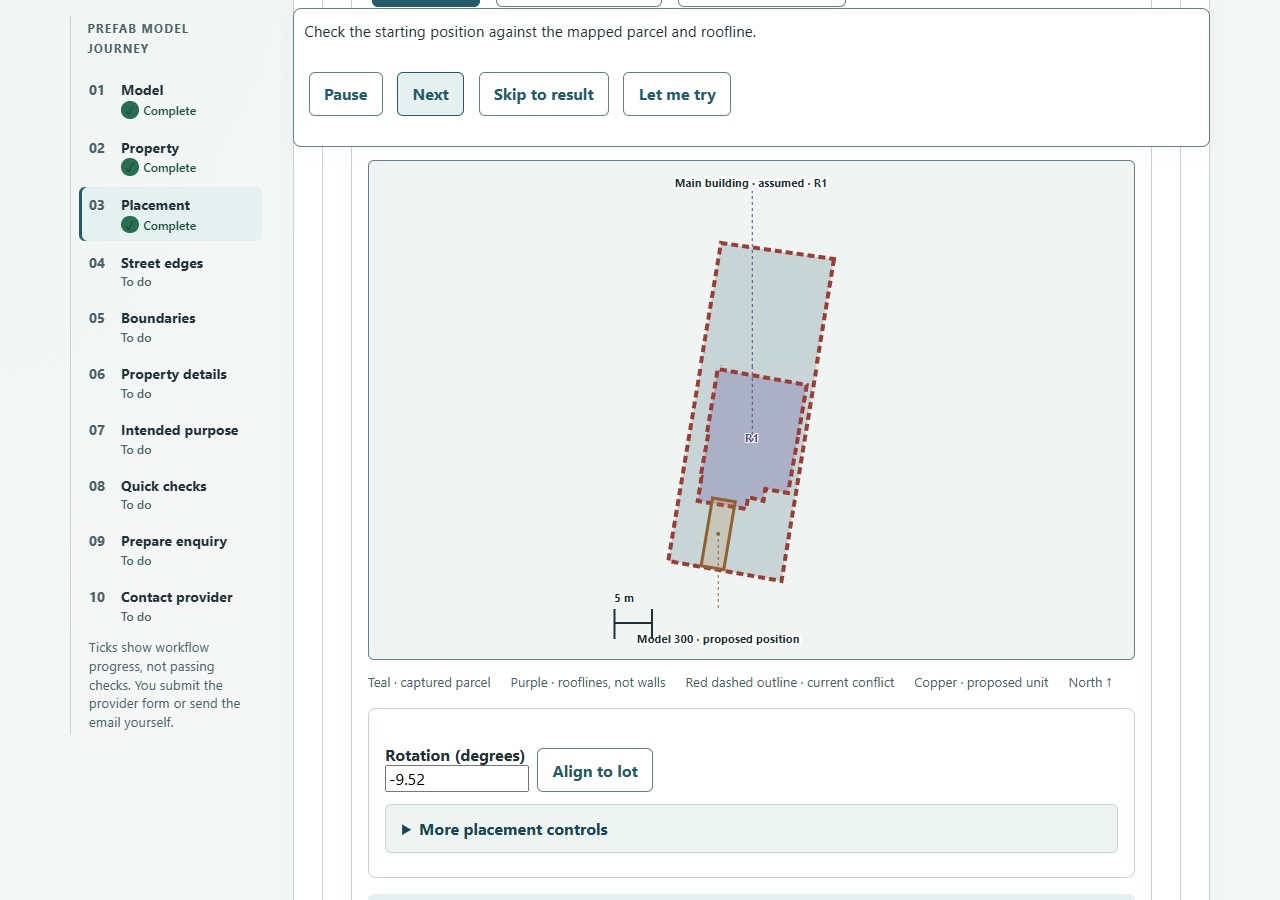
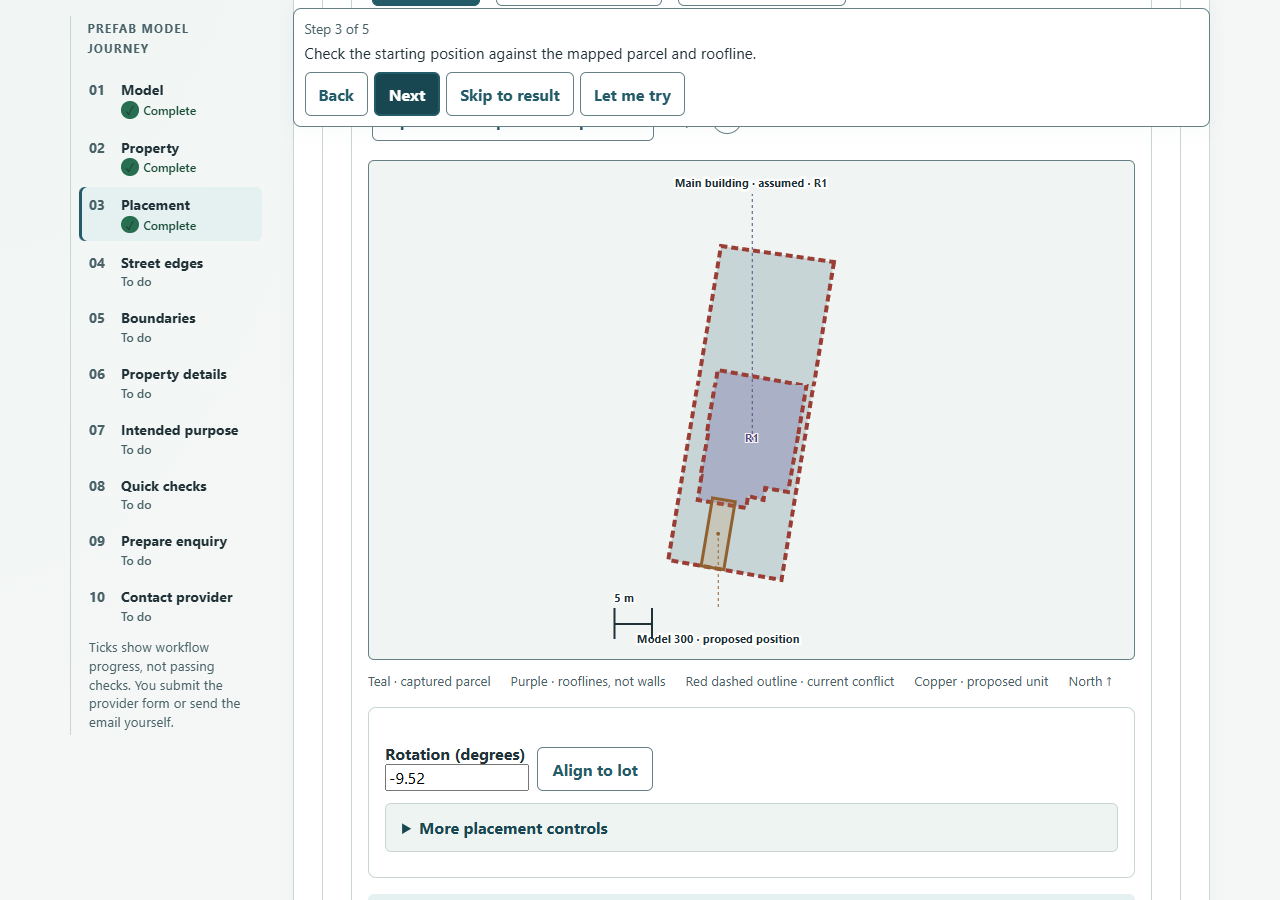
Advance the guided walkthrough with explicit Next and Back

diff --git a/frontend/src/builder_demo/BuilderDemo.tsx b/frontend/src/builder_demo/BuilderDemo.tsx
@@ -1,6 +1,6 @@
 import type { AssessmentEntry } from '../navigation/assessmentEntry'
 import { buildingClearanceMove } from './buildingMove'
-import { useWalkthrough } from './walkthrough'
+import { useWalkthrough, walkthroughPhase } from './walkthrough'
 import { FloatingNext, PlaybackLayout } from '../FloatingNext'
 import { findingAcknowledgementKey } from './journeyState'
 import { enquiryUseQualification, manufacturerDocument, placementConcerns, boundaryObservations, additionalObservation, conditionalObservation, assumptionsDescription, type EnquiryInput } from './manufacturer'
@@ -31,7 +31,7 @@ import { ModelImage } from './model_image/ModelImage'
 import { ExampleProperty } from './ExampleProperty'
 import { IntendedUseControl, applyIntendedUse } from './intendedUse'
 import { useRetainedResult } from '../conditional_screening/resultRetention'
-import { demoEnquiryAnswers, movedExamplePosition, exampleCase, exampleSourcePage } from './example'
+import { demoEnquiryAnswers, movedExamplePosition, initialExamplePosition, exampleCase, exampleSourcePage } from './example'
 import { SiteAssumptionsEditor } from '../zoning_site_assumptions/SiteAssumptions'
 import { ordinaryFourEdgeBoundary, type StreetAdjacency, type BoundaryMapMode, type SiteAssumptions } from '../zoning_site_assumptions/model'
 import type { BoundaryMapInteraction } from '../zoning_site_assumptions/BoundaryMapTools'
@@ -544,9 +544,8 @@ export default function BuilderDemo({ onProgressChange, presetRequest = 0, entry
   const readinessSignature = JSON.stringify(reviewReadiness)
   const playback = useWalkthrough(visible, stop =>
     stop === 'model' || stop === 'property' || !!measurementResult && !checksPending &&
-      (stop !== 'moved' && stop !== 'result' && stop !== 'enquiry' ||
-        measurementResult.result.input.placement.centre_xy[0] === Number(movedExamplePosition().x) &&
-        measurementResult.result.input.placement.centre_xy[1] === Number(movedExamplePosition().y)) &&
+      (measurementResult.result.input.placement.centre_xy[0] === Number((stop === 'initial' ? initialExamplePosition() : movedExamplePosition()).x) &&
+        measurementResult.result.input.placement.centre_xy[1] === Number((stop === 'initial' ? initialExamplePosition() : movedExamplePosition()).y)) &&
       (stop !== 'result' && stop !== 'enquiry' || use === demoEnquiryAnswers.intendedUse), geometryFailure)
   const playbackActive = !!playback.state && visible
   playbackLayoutRef.current = playbackActive
@@ -852,7 +851,7 @@ export default function BuilderDemo({ onProgressChange, presetRequest = 0, entry
     if (journeyStep !== expectedStep) return
     const scrollKey = `${playbackRun}:${playbackStop}`
     if (playbackScrolled.current === scrollKey) return
-    if (!playbackActive || !playbackStop || playback.state?.paused) return
+    if (!playbackActive || !playbackStop) return
     const target = playbackStop === 'model' ? 'builder-title' : playbackStop === 'property' ? 'builder-property-title' : playbackStop === 'result' ? 'builder-quick-checks' : playbackStop === 'enquiry' ? 'builder-unsent-preview' : 'placement-map'
     const frame = requestAnimationFrame(() => {
       if (!playbackLayoutRef.current || !journeyVisible.current) return
@@ -860,14 +859,15 @@ export default function BuilderDemo({ onProgressChange, presetRequest = 0, entry
       if (element && !element.closest('[hidden]')) { playbackScrolled.current = scrollKey; element.scrollIntoView?.({ block: 'start', behavior: 'auto' }) }
     })
     return () => { if (typeof cancelAnimationFrame !== 'undefined') cancelAnimationFrame(frame) }
-  }, [playbackActive, playbackStop, playbackRun, playback.state?.paused, journeyStep, expanded, !!enquiryDoc])
+  }, [playbackActive, playbackStop, playbackRun, journeyStep, expanded, !!enquiryDoc])
   return <PlaybackLayout.Provider value={playbackActive}><div className="builder-demo" data-playback={playbackActive || undefined}>
     {playbackActive && <section data-playback-controls className="builder-playback" aria-label="Walkthrough controls">
-      <p aria-live="polite">{playback.state!.finished ? 'Walkthrough complete. ' : ''}{playbackCaptions[playbackStop!]}{geometryFailure ? ' Placement check unavailable. Playback paused; retry or take over.' : !['model', 'property'].includes(playbackStop!) && (!measurementResult || checksPending) ? ' Waiting for current checks; you can pause, retry in the assessment, or take over.' : ''}</p>
+      <span className="builder-playback-progress">Step {walkthroughPhase[playbackStop!]} of 5</span>
+      <p aria-live="polite">{playback.state!.finished ? 'Walkthrough complete. ' : ''}{playbackCaptions[playbackStop!]}{geometryFailure ? ' Placement check unavailable. Retry in the assessment or take over.' : !playback.ready ? ' Waiting for current checks; you can go back or take over.' : ''}</p>
       <div className="sr-actions">
-        <button hidden={playback.state!.finished} type="button" onClick={playback.pause}>{playback.state!.paused ? 'Resume' : 'Pause'}</button>
-        {playback.reducedMotion && !playback.state!.finished && <button type="button" disabled={!playback.ready} onClick={playback.next}>Next</button>}
-        <button hidden={playback.state!.finished} type="button" onClick={playback.skip}>Skip to result</button>
+        <button type="button" disabled={playbackStop === 'model'} onClick={playback.back}>Back</button>
+        {!playback.state!.finished && <button className="builder-continue" type="button" disabled={!playback.ready || playback.state!.skipping} onClick={playback.next}>Next</button>}
+        <button hidden={playback.state!.finished || playbackStop === 'result'} type="button" onClick={playback.skip}>Skip to result</button>
         <button type="button" onClick={() => { playback.cancel(); requestAnimationFrame(() => focusSummaryTarget(document, playbackStop === 'enquiry' ? 'builder-use' : playbackStop === 'model' ? 'builder-model-choice' : 'placement-map')) }}>Let me try</button>
       </div>
     </section>}
@@ -947,7 +947,7 @@ export default function BuilderDemo({ onProgressChange, presetRequest = 0, entry
           <FloatingNext active={journeyStep === 'purpose'} sectionId="builder-purpose"><div className="homeowner-summary__continue"><p>Choose an intended use if known, or keep Not sure or unanswered and continue. Dependent planning checks remain unresolved.</p><button className="builder-continue" type="button" onClick={() => advanceJourneyStep(zoningCase ? 'checks' : 'enquiry')}>Next: {zoningCase ? 'Review quick checks' : 'Prepare enquiry'}<span aria-hidden="true"> →</span></button></div></FloatingNext>
         </div>
       </section></EvidenceAtFooter>}
-      {mode === 'example' && <ExampleProperty onFailureChange={setGeometryFailure} playbackPosition={playbackStop === 'moved' ? { token: playbackRun!, position: movedExamplePosition() } : undefined} model={model} showPlacementConcerns={journeyStep === 'boundaries'} placementConcerns={placementConcernsPanel} onContinueUnresolved={checksPending ? undefined : continueWithPlacementConcerns} moveSuggestion={moveSuggestion?.geometryRevision === geometryRevision ? moveSuggestion : undefined} evidenceTargetId="builder-geometry-evidence" key={revision} placementContinuation={placementContinuation} placementSummary={summaryPanel} boundaryInteraction={boundaryInteraction} onAssessmentPending={setGeometryPending} onMeasurement={value => { setMeasurementResult(value); setReadyFor(null) }} />}
+      {mode === 'example' && <ExampleProperty onFailureChange={setGeometryFailure} playbackPosition={playbackStop === 'initial' || playbackStop === 'moved' ? { token: playbackRun!, position: playbackStop === 'initial' ? initialExamplePosition() : movedExamplePosition() } : undefined} model={model} showPlacementConcerns={journeyStep === 'boundaries'} placementConcerns={placementConcernsPanel} onContinueUnresolved={checksPending ? undefined : continueWithPlacementConcerns} moveSuggestion={moveSuggestion?.geometryRevision === geometryRevision ? moveSuggestion : undefined} evidenceTargetId="builder-geometry-evidence" key={revision} placementContinuation={placementContinuation} placementSummary={summaryPanel} boundaryInteraction={boundaryInteraction} onAssessmentPending={setGeometryPending} onMeasurement={value => { setMeasurementResult(value); setReadyFor(null) }} />}
       {mode === 'live' && (liveCase ? <OccupiedLots catalogue={journeyCatalogue} key={revision} showPlacementConcerns={journeyStep === 'boundaries'} placementConcerns={placementConcernsPanel} onContinueUnresolved={checksPending ? undefined : continueWithPlacementConcerns} placementContinuation={placementContinuation} placementSummary={summaryPanel} moveSuggestion={moveSuggestion?.geometryRevision === geometryRevision ? moveSuggestion : undefined} evidenceTargetId="builder-geometry-evidence" compactPlacement suppliedCase={liveCase} boundaryInteraction={boundaryInteraction} allowedModelIds={[MODEL_ID]} initialModelId={MODEL_ID} onAssessmentPending={setGeometryPending} onMeasurement={value => { setMeasurementResult(value); setReadyFor(null) }} showHandoff={false} /> : <p>Select a Victoria property above to open its captured parcel sketch. Available geometry is approximate and unreviewed.</p>)}
 
     {zoningCase && <><EvidenceAtFooter targetId="builder-rule-evidence"><section className="builder-placement-results" aria-label="Current placement results">

diff --git a/frontend/src/builder_demo/walkthrough.ts b/frontend/src/builder_demo/walkthrough.ts
@@ -3,36 +3,22 @@ import { useEffect, useRef, useState } from 'react'
 // Six stops, five narrated phases: placement has a before and an after.
 export type WalkthroughStop = 'model' | 'property' | 'initial' | 'moved' | 'result' | 'enquiry'
 export const walkthroughStops: WalkthroughStop[] = ['model', 'property', 'initial', 'moved', 'result', 'enquiry']
-const dwell: Record<WalkthroughStop, number> = { model: 7000, property: 7000, initial: 7000, moved: 7000, result: 14000, enquiry: 13000 }
+export const walkthroughPhase: Record<WalkthroughStop, number> = { model: 1, property: 2, initial: 3, moved: 3, result: 4, enquiry: 5 }
 export function useWalkthrough(visible: boolean, isReady: (stop: WalkthroughStop) => boolean, failed = false) {
-  const [state, setState] = useState<{ stop: WalkthroughStop; paused: boolean; finished?: boolean; skipping: boolean; run: number } | null>(null)
-  const ready = state ? isReady(state.stop) : false
+  const [state, setState] = useState<{ stop: WalkthroughStop; finished: boolean; skipping: boolean; run: number } | null>(null)
+  const ready = !!state && (!failed || state.stop === 'model' || state.stop === 'property') && isReady(state.stop)
   const epoch = useRef(0)
   const halt = () => { epoch.current++ }
   const cancel = () => { epoch.current++; setState(null) }
-  const start = () => { const run = ++epoch.current; setState({ stop: 'model', paused: false, skipping: false, run }) }
-  const pause = () => { epoch.current++; setState(previous => previous && { ...previous, paused: !previous.paused }) }
-  const next = () => {
-    epoch.current++
-    setState(previous => !previous || !ready ? previous : previous.stop === 'enquiry' ? { ...previous, finished: true, paused: true, skipping: false } : { ...previous, skipping: previous.stop === 'result' ? false : previous.skipping, stop: walkthroughStops[walkthroughStops.indexOf(previous.stop) + 1] })
-  }
-  const skip = () => { epoch.current++; setState(previous => previous && { ...previous, stop: 'moved', paused: false, skipping: true }) }
-  const [reducedMotion, setReducedMotion] = useState(() => typeof window === 'undefined' ? false : window.matchMedia?.('(prefers-reduced-motion: reduce)').matches ?? false)
-  useEffect(() => {
-    const query = window.matchMedia?.('(prefers-reduced-motion: reduce)')
-    if (!query) return
-    const changed = () => setReducedMotion(query.matches)
-    query.addEventListener('change', changed)
-    return () => query.removeEventListener('change', changed)
-  }, [])
-  useEffect(() => { if (failed) { epoch.current++; setState(previous => previous && { ...previous, paused: true }) } }, [failed])
+  const start = () => { const run = ++epoch.current; setState({ stop: 'model', finished: false, skipping: false, run }) }
+  const go = (stop: WalkthroughStop, skipping = false) => { const run = ++epoch.current; setState({ stop, finished: stop === 'enquiry', skipping, run }) }
+  const next = () => { if (state && ready && !state.finished) go(walkthroughStops[walkthroughStops.indexOf(state.stop) + 1]) }
+  const back = () => { if (state && state.stop !== 'model') go(walkthroughStops[walkthroughStops.indexOf(state.stop) - 1]) }
+  const skip = () => { if (state) go('moved', true) }
   useEffect(() => { if (!visible) cancel() }, [visible])
-  useEffect(() => {
-    if (!state || state.finished || state.paused || !visible || !ready || reducedMotion && !state.skipping) return
-    const token = epoch.current
-    const timer = window.setTimeout(() => { if (epoch.current === token) next() }, state.skipping ? 0 : dwell[state.stop])
-    return () => window.clearTimeout(timer)
-  }, [state, ready, visible, reducedMotion])
+  // Only an explicit Skip completes the moved measurement and opens its result.
+  // Ordinary steps never advance with time or when a response arrives.
+  useEffect(() => { if (state?.skipping && ready && visible && state.run === epoch.current) go('result') }, [state, ready, visible])
   useEffect(() => () => { epoch.current++ }, [])
-  return { state, ready, halt, start, cancel, pause, next, skip, reducedMotion }
+  return { state, ready, halt, start, cancel, next, back, skip }
 }

diff --git a/frontend/src/builder_demo/walkthrough.test.tsx b/frontend/src/builder_demo/walkthrough.test.tsx
@@ -8,7 +8,7 @@ import { act } from 'react'
 import { createRoot } from 'react-dom/client'
 import BuilderDemo from './BuilderDemo'
 
-test('playback pause, skip and edit takeover retain current state and reject an obsolete measurement', async () => {
+test('explicit walkthrough steps, back, skip and edit takeover reject an obsolete measurement', async () => {
   // Retained HTTP boundary response protects workflow identity, not arithmetic.
   // The browser suite separately calls the real local geometry/planning API.
   const fixture = JSON.parse(readFileSync('src/scenario_handoff/retained-assessment.fixture.json', 'utf8'))
@@ -42,13 +42,20 @@ test('playback pause, skip and edit takeover retain current state and reject an 
   try {
     await act(async () => root.render(<BuilderDemo entryRequest={{ example: true, modelId: 'aux-300', walkthrough: true }} />))
     assert.match(caption()!, /Model 300/)
-    await click('Pause'); await tick(550); assert.match(caption()!, /Model 300/)
-    await click('Resume'); await click('Next'); assert.match(caption()!, /Parcel 87/)
+    await tick(550); assert.match(caption()!, /Model 300/)
+    assert.equal(button('Pause'), undefined)
+    await click('Next'); assert.match(caption()!, /Parcel 87/)
+    await click('Back'); assert.match(caption()!, /Model 300/)
+    await click('Next')
     await click('Next'); await tick(800)
     assert.match(caption()!, /starting position/)
     hold = true; await click('Skip to result'); await tick(550)
     assert.ok(held)
-    await click('Pause'); assert.match(caption()!, /Move away/)
+    assert.match(caption()!, /Move away/)
+    assert.equal(button('Next').disabled, true, 'pending moved measurement cannot advance')
+    hold = false
+    await click('Back'); await tick(100)
+    assert.match(caption()!, /starting position/)
     await act(async () => {
       const select = document.querySelector<HTMLSelectElement>('#builder-model-choice')!
       select.value = 'hewing-quadra4'; select.dispatchEvent(new dom.window.Event('change', { bubbles: true }))

diff --git a/frontend/src/builder_demo/builder-demo.css b/frontend/src/builder_demo/builder-demo.css
@@ -168,8 +168,10 @@
 /* One playback control area replaces docking; map controls remain in flow. */
 .builder-playback { position: sticky; top: .5rem; z-index: 51; padding: .65rem; border: 1px solid var(--border-strong); border-radius: var(--radius-card); background: var(--surface); }
 .builder-playback p { margin: 0 0 .4rem; font-size: .95rem; }
-.builder-playback .sr-actions { gap: .4rem; }
-.builder-playback button { min-height: 44px; }
+.builder-playback .sr-actions { gap: .4rem; margin: 0; }
+.builder-playback-progress { display: block; color: var(--ink-muted); font-size: .85rem; margin-bottom: .25rem; }
+.builder-playback .builder-continue { margin: 0; }
+.builder-demo .builder-playback button { min-height: 44px; margin: 0; padding: .45rem .8rem; font-size: 1rem; }
 .builder-demo[data-playback] :is(#builder-title, #builder-property-title, #placement-map, #builder-quick-checks, #builder-enquiry-title) { scroll-margin-top: 12rem; }
 .floating-next--docked :is(.step-action > p, .homeowner-summary__continue > p, .builder-enquiry-confirm > p, .builder-enquiry-confirm > h3) { display: none; }
 .floating-next--docked .builder-continue { width: 100%; margin: 0; }

diff --git a/docs/guided-walkthrough.md b/docs/guided-walkthrough.md
@@ -1,7 +1,7 @@
 # Guided example walkthrough
 
-Implemented against `origin/main` at
-`1dcc50d815005f9aa57e9ce9abaab17cb7294168` on October 9, 2026.
+Initially implemented on October 9, 2026; explicit Next/Back navigation replaces
+timed playback against merged baseline `d7fe466c18914bc2d2cc65601b20340d8b09b1db`.
 This is an editable preliminary demonstration, not accepted site evaluation.
 
 Home offers Start assessment, Try an example and Watch a walkthrough. The latter
@@ -17,17 +17,19 @@ and real local geometry API. The moved centre is `(473693.7, 5362202.36)` in
 EPSG:3157; dimensions and orientation come from the existing example/catalogue.
 The review supplied this movement for this parcel, not for arbitrary geometry.
 No stored response or timer declares success. Placement/current revision readiness
-gates progression; failures pause at the current workspace with retry/takeover.
+gates Next; failures remain at the current workspace with retry/takeover.
 
-The normal narration budget is 55 seconds plus measurement waits. Pause cancels
-advancement and Resume starts the current phase's narration interval again. Skip
-applies the moved input, awaits current checks, supplies related example answers
-together and opens the unsent enquiry. Reduced motion has static captions, instant
-changes and explicit Next/Skip. Completion retains Let me try. No playback action
+One floating panel shows the current explanation, Step 1–5, Back and Next. There
+are no dwell timers or Pause/Resume controls, including with normal motion. Back
+restores the initial placement when revisiting the before/after comparison and
+awaits its new measurement. Next waits for current checks. Skip applies the moved
+input, awaits current checks, supplies related example answers together and stops
+at the findings; Next then opens the unsent enquiry. All transitions use one
+instant scroll after their target renders. Completion retains Back and Let me try. No playback action
 copies, downloads, confirms readiness, opens a provider or sends a message.
 
 Editing, model/property changes, navigation and unmount cancel pending playback.
-Pointer-down invalidates timers without shifting the layout under a click or drag;
+Pointer-down invalidates pending skip advancement without shifting the layout under a click or drag;
 the interaction completes before the caption area is removed. Existing request
 version/abort checks reject old measurements. Playback owns scrolling and suppresses
 both existing docking paths; manual docks now show a compact action. A queued resize
@@ -85,18 +87,19 @@ Final local results: 177 frontend tests passed; TypeScript/Vite build passed;
 48 focused geometry/conditional tests passed; focused Ruff and `git diff --check`
 passed. No database tests were run locally because no isolated PostgreSQL was
 configured. Vite retains its existing large-chunk advisory; FastAPI testing reports
-the existing httpx deprecation. Final normal playback completed in 56.806 seconds.
+the existing httpx deprecation. The original timed version completed in 56.806
+seconds; explicit navigation has no duration target.
 Final-head GitHub CI is a separate integration check.
 
-Observed browser run: pause/resume before advancement and during an in-flight
-measurement; incomplete geometry response; skip and replay with keep/replace; failure and retry; model switch
+Observed browser run: Next/Back with restored initial geometry; disabled Next during an in-flight
+measurement; incomplete geometry response; skip to findings and replay with keep/replace; failure and retry; model switch
 with a late response; property correction/manual fallback; 390 × 844 keyboard
-takeover and reduced motion; navigation exit; normal timed playback; unsent output
+takeover and reduced motion; navigation exit; a normal-motion hold longer than the former dwell without advancement; unsent output
 and exact source evidence. The geometry reproduced about 0.7 m² outside and 1.6 m²
 roof overlap initially, then containment/no observed overlap with about 2.08 m to
 the mapped boundary and 5.08 m to the roofline. These are reproduction observations,
 not copied numerical oracles or legal setbacks. See `browser-results.json` for the
-actual final run duration and unrounded checks.
+actual navigation checks and unrounded measurements.
 
 PDF recipient inspection used Poppler page rendering: the main enquiry carries
 the request, example identity, synthetic-answer attribution, product questions and

diff --git a/docs/quality.md b/docs/quality.md
@@ -261,7 +261,9 @@ links and example-to-real invalidation. No enquiry was sent.
 [The walkthrough record](guided-walkthrough.md) separates mounted behavioral coverage,
 real local API/browser reproduction, source readiness and human validation. It includes
 390 × 844 keyboard/reduced-motion checks, delayed/failed responses and obsolete-response
-takeover. Recipient inspection of an explicitly saved PDF verifies demo attribution but
+takeover. Explicit Next/Back checks restore the before-placement geometry, hold a
+normal-motion step past its former dwell, gate Next on current measurements and
+stop Skip at findings. Recipient inspection of an explicitly saved PDF verifies demo attribution but
 records crowded lower plan sources/footers as an export follow-up; the exact JSON remains complete.
 Municipal success paths, source acceptance, broad accessibility and participant validation
 remain separate gaps. No deployment, source publication or external enquiry was performed.

diff --git a/docs/architecture.md b/docs/architecture.md
@@ -455,7 +455,9 @@ No new service, database schema or accepted-data publication is introduced.
 
 The existing assessment owns example initialization and a small typed frontend playback
 controller. It calls the existing journey/placement actions and waits for current API
-results; there is no alternate evaluator or tour service. Demo-supplied intended-use
+results. Explicit Next/Back replaces dwell timers; each placement visit has a fresh
+command identity, so Back restores the comparison and rejects stale responses.
+There is no alternate evaluator or tour service. Demo-supplied intended-use
 attribution passes through the existing conditional boundary separately from defaults
 and observations. No persistence, migration or publication changes. See
 [verification and integration gaps](guided-walkthrough.md).
